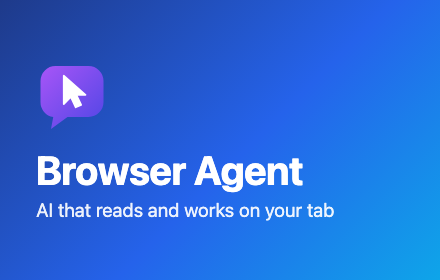
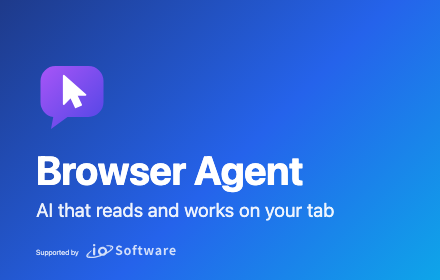
加入 Supported by io Software：README、設定頁底部、商店宣傳圖

Changed region(s): [[0.0591, 0.8571, 0.4136, 0.9429]]

diff --git a/extension/sidepanel.html b/extension/sidepanel.html
@@ -360,6 +360,9 @@
 
   /* 清單列：設定首頁、子頁的開關、技能清單 */
   .list-group { background: var(--surface); border: 1px solid var(--line); border-radius: 12px; overflow: hidden; }
+  .supported-by { display: block; width: fit-content; margin: 24px auto 8px; opacity: .85; }
+  .supported-by:hover { opacity: 1; }
+  .supported-by img { display: block; height: 22px; }
   .list-row {
     display: flex; flex-wrap: wrap; align-items: center; gap: 8px 12px; width: 100%; min-height: 52px; padding: 10px 14px;
     border: 0; background: none; text-align: left; font-size: 13px;

diff --git a/src/pages.tsx b/src/pages.tsx
@@ -271,6 +271,9 @@ export function SettingsPage({ nav }: { nav: Nav }) {
           }} />
         </label>
       </div>
+      <a className="supported-by" href="https://iosoftware.ai" target="_blank" rel="noopener noreferrer">
+        <img src="icons/supported-by-iosoftware.svg" alt="Supported by io Software" />
+      </a>
     </Page>
   );
 }

diff --git a/README.md b/README.md
@@ -138,7 +138,7 @@ Only names and descriptions go into the system prompt; the model calls `use_skil
 - going to another site, by navigating or by clicking a link, unless it's the site the task started on, a site you named in your message, or one you already allowed in this task. The card shows the full URL, query string included;
 - saving a memory once the conversation contains web content (a page it read, a PDF, a selection).
 
-Suggestions generated from the page only fill the input box; you send them yourself. Links in replies show their real domain next to the text.
+Clicking a suggestion sends it right away. Suggestions generated from the page are written after reading page content, so a page can influence them: sites they mention don't count as sites you named, and what they trigger still goes through the same confirmation cards. Links in replies show their real domain next to the text.
 
 **Output and files.** Model replies are rendered with DOMPurify. Images, media, SVG, iframes, forms and inline styles are stripped, so a page can't get the model to leak your conversation through an image URL. Generated files are plain-text formats only (`csv`, `json`, `md`, …), and CSV/TSV cells that start like a spreadsheet formula are neutralized.
 
@@ -196,3 +196,7 @@ Issues and PRs are welcome — see [CONTRIBUTING.md](CONTRIBUTING.md). Keep PRs 
 ## License
 
 [MIT](LICENSE). Browser Agent is an independent project, not affiliated with Anthropic, OpenAI or Google.
+
+---
+
+<p align="center"><a href="https://iosoftware.ai"><img src="docs/supported-by-iosoftware.svg" alt="Supported by io Software" height="32"></a></p>

diff --git a/README.zh-TW.md b/README.zh-TW.md
@@ -140,7 +140,7 @@ description: 把會議頁面整理成決議、待辦事項與負責人
 - 前往其他網站（navigate 或點連結都算），除非是任務開始時的網站、你在訊息裡提到的網站，或這次任務已經允許過的。卡片顯示完整網址，包含查詢字串；
 - 對話裡已經有網頁內容（讀過的頁面、PDF、選取文字）之後寫入記憶。
 
-依頁面產生的首頁建議點了只會填進輸入框，要你自己送出。回覆裡的連結旁邊會標示真正的網域。
+首頁建議點了直接送出。依頁面產生的建議是讀過網頁內容才寫的，網頁可以影響它：它提到的網站不算你指定的，觸發的動作照樣要過上面的確認卡。回覆裡的連結旁邊會標示真正的網域。
 
 **輸出與檔案。** 模型回覆用 DOMPurify 消毒後才顯示，圖片、媒體、SVG、iframe、表單、行內樣式一律拿掉，網頁沒辦法誘導模型用圖片網址把對話外洩。產生的檔案只限純文字格式（`csv`、`json`、`md`……），CSV／TSV 裡看起來像試算表公式開頭的儲存格會被中和。
 
@@ -182,3 +182,7 @@ npm run test:e2e   # 打包後用 Playwright 載入擴充功能，模型 API 用
 ## 授權
 
 [MIT](LICENSE)。Browser Agent 是獨立專案，與 Anthropic、OpenAI、Google 無隸屬或背書關係。
+
+---
+
+<p align="center"><a href="https://iosoftware.ai"><img src="docs/supported-by-iosoftware.svg" alt="Supported by io Software" height="32"></a></p>
